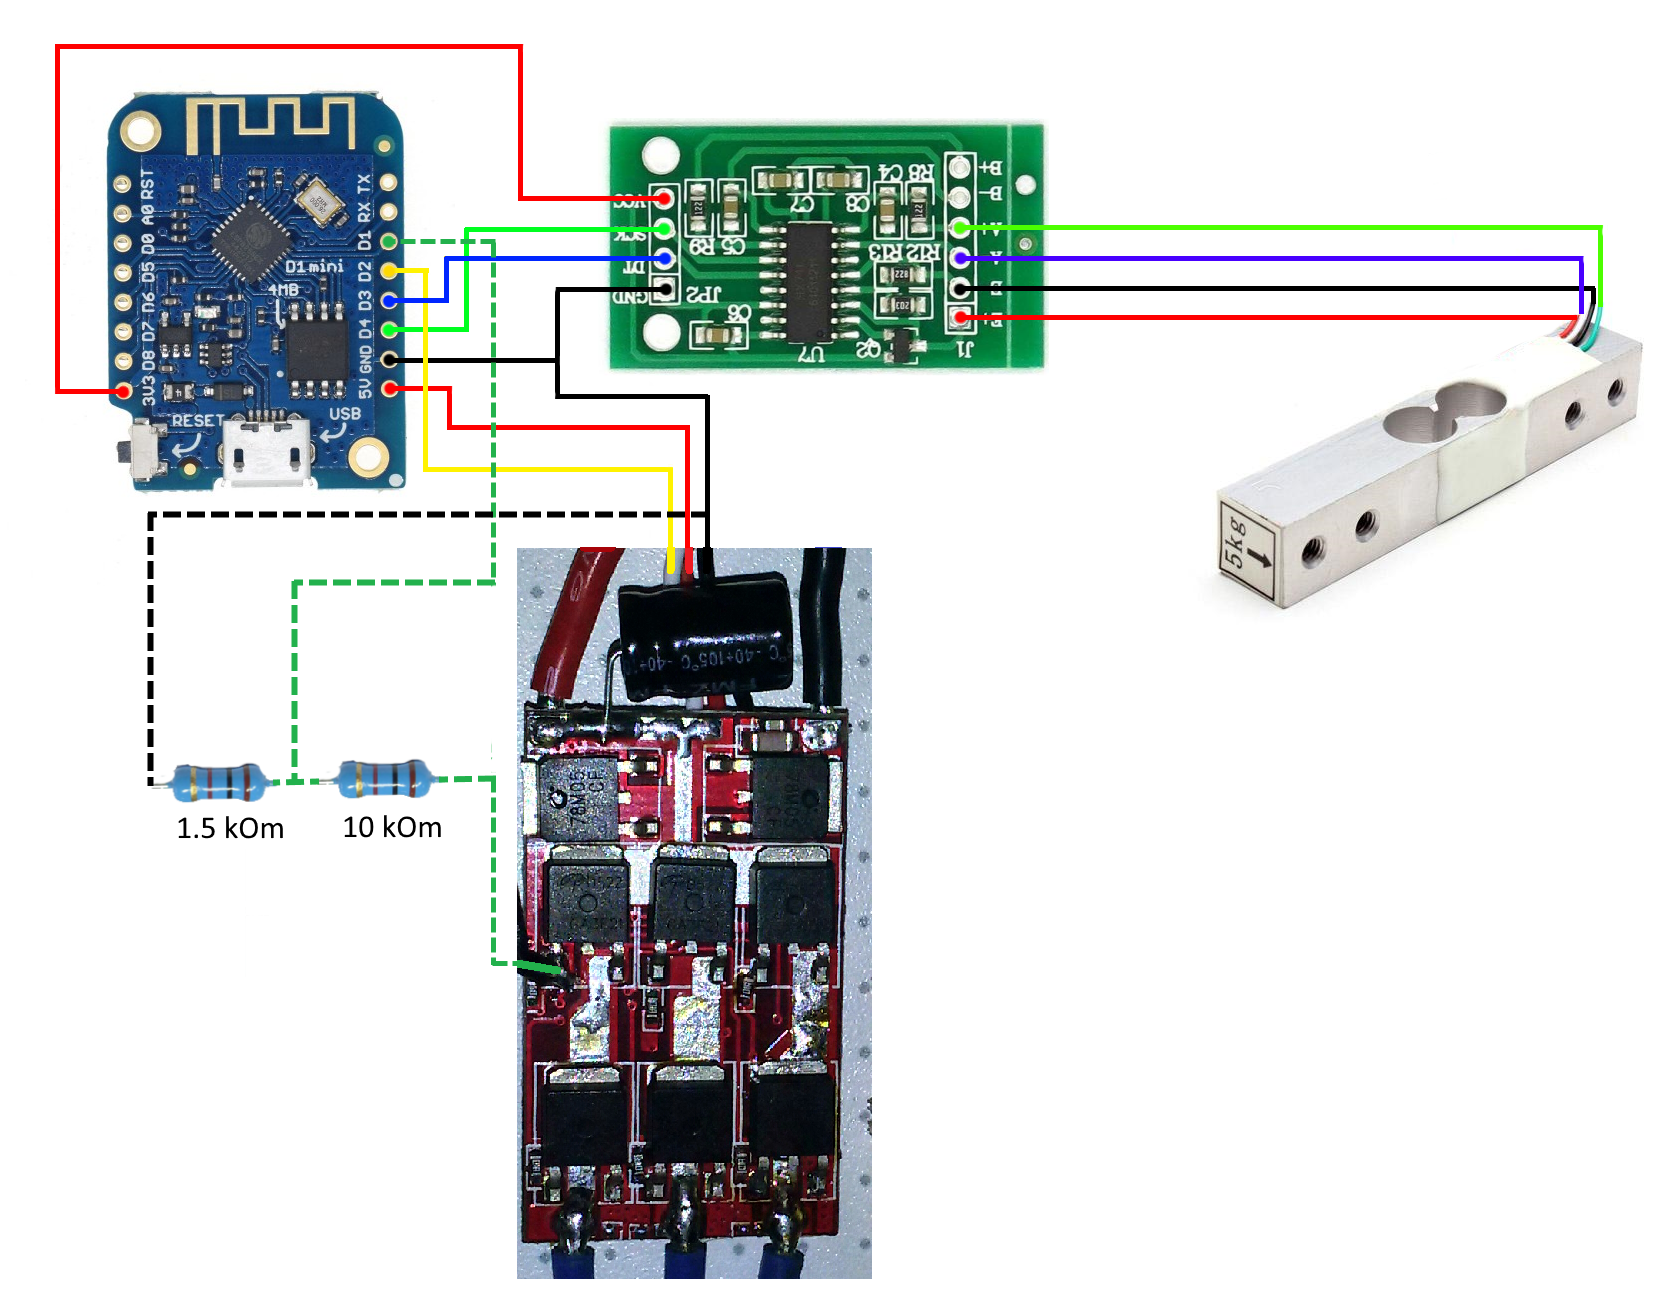
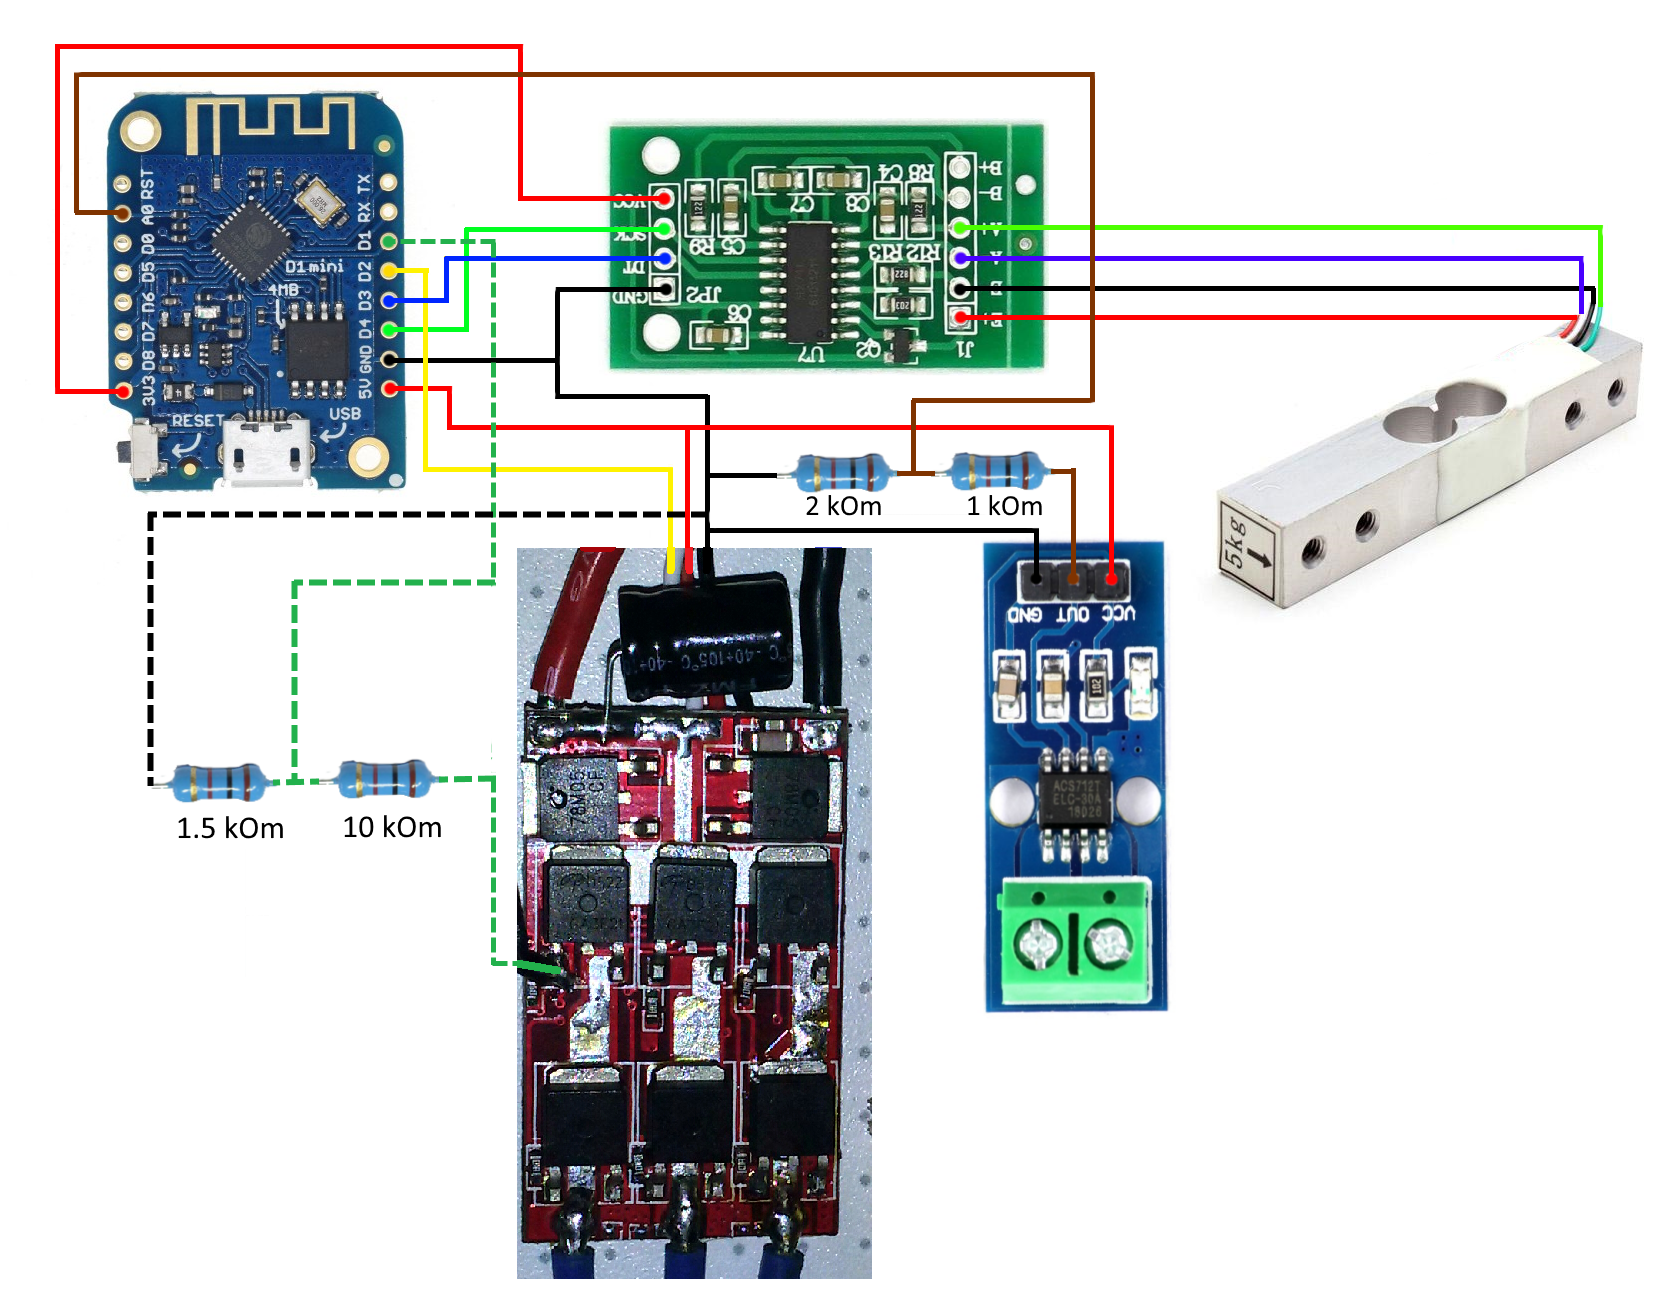
Обновлено описание для подключения датчика ACS712

Changed region(s): [[0.437, 0.3067, 0.7179, 0.7975], [0.0624, 0.0307, 0.6555, 0.0613]]

diff --git a/README.md b/README.md
@@ -12,6 +12,15 @@ https://ali.ski/NLnax
 HX711 и тензодатчик  
 https://ali.ski/DXF969  
 
+ACS712  
+https://ali.ski/aLz6B5  
+
+Резисторы  
+10 кОм - 1шт  
+1,5 кОм - 1 шт  
+2 кОм  - 1 шт  
+1 кОм  - 1 шт  
+
 Для получение RPM берем любой самолетный регулятор, на нем легче подпаятся и схема и них у всех одинаковая.  
 
 STL файлы  
